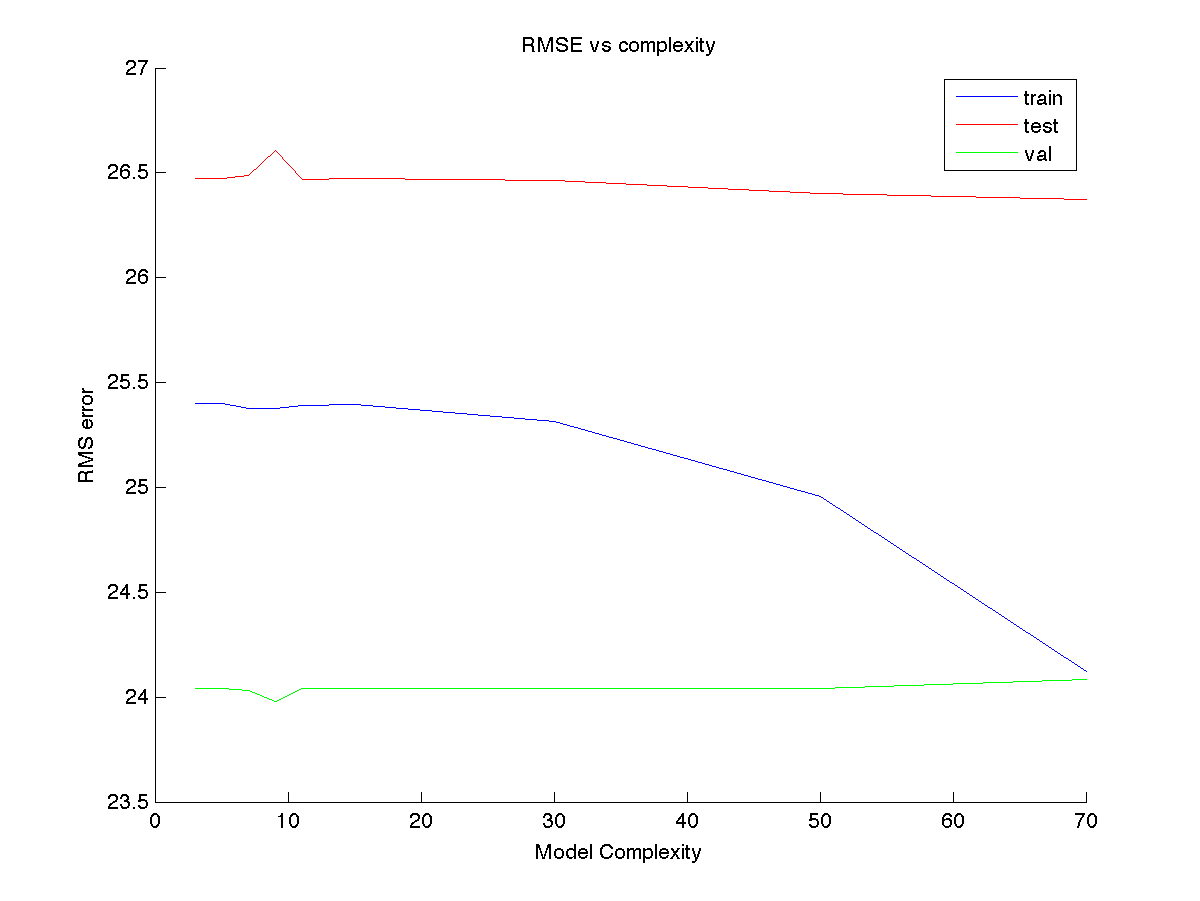
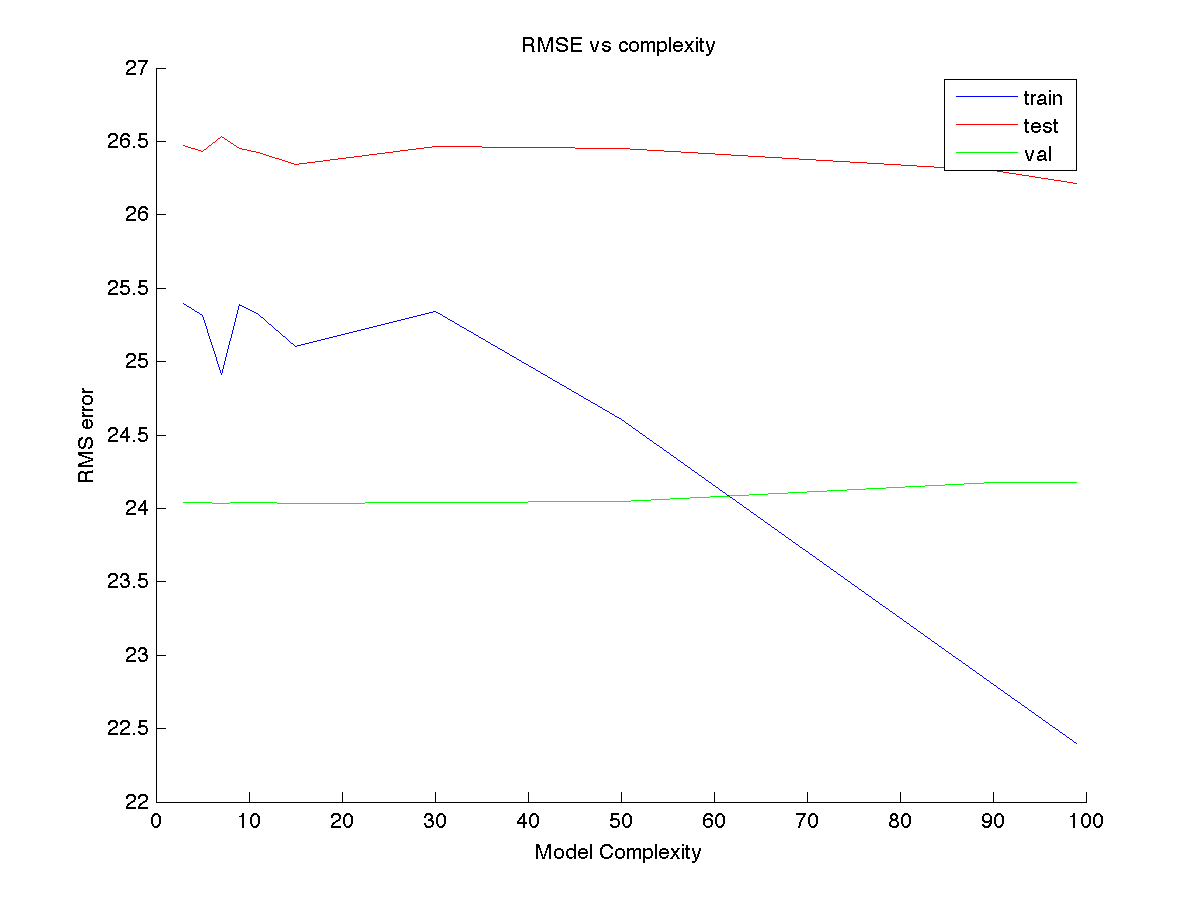
Added scatter for dataset 2

diff --git a/Assignment_1/Code/Q2.m b/Assignment_1/Code/Q2.m
@@ -1,5 +1,5 @@
 N_values = [20,100,1000]; % training set size
-M_values = [3,5,7,9,11,15,30,50];  % no of basis functions
+M_values = [3,5,7,9,11,15,30,50,90,99];  % no of basis functions
 lambda_values = [0,10^(-6),10^(-5),10^(-4),10^(-3),10^(-2),10^(-1),1,2,5]; % regularization parameter
 
 % read in training datasets 
@@ -93,6 +93,7 @@ saveas(gcf,'Plots_2/RMS/RMS_complexity_1000.png');
 
 % RMSE vs lambda
 
+%{
 train_rms = [];
 test_rms = [];
 val_rms = [];
@@ -116,4 +117,32 @@ ylabel('RMS error');
 xlabel('log(lambda)');
 legend('show');
 saveas(gcf,'Plots_2/RMS/RMS_lambda_1000.png');
+%}
 
+%%%%%%%%%%%%SCATTER Plots%%%%%%%%%%%%%%%
+
+% Scatter plots for varying N
+
+n_range = [100,1000];
+m_range = [9,15,40];
+
+for i = 1:length(n_range)
+    for j = 1:length(m_range)
+        N = n_range(i);
+        M = m_range(i);
+        fig1 = figure(1);
+        b = strcat('Scatter plot of model output Vs target output for N = ',int2str(N),' and M = ',int2str(M));
+        
+        eval(sprintf('trainSet = trainSet_%d',N));
+        [coeffs,designMat,centroids,widthParam] = surface_fit(trainSet,N,M,0);
+        model_output = designMat*coeffs;
+        target_output = trainSet(:,3);
+        scatter(model_output,target_output,'ko','filled'); 
+        
+        xlabel('Target output');
+        ylabel('Model output');
+        title(b);
+        
+        saveas(fig1,strcat('Plots_2/Scatter/VaryingN/VaryingN_N',int2str(N),'M',int2str(M),'.png'));
+    end
+end 
